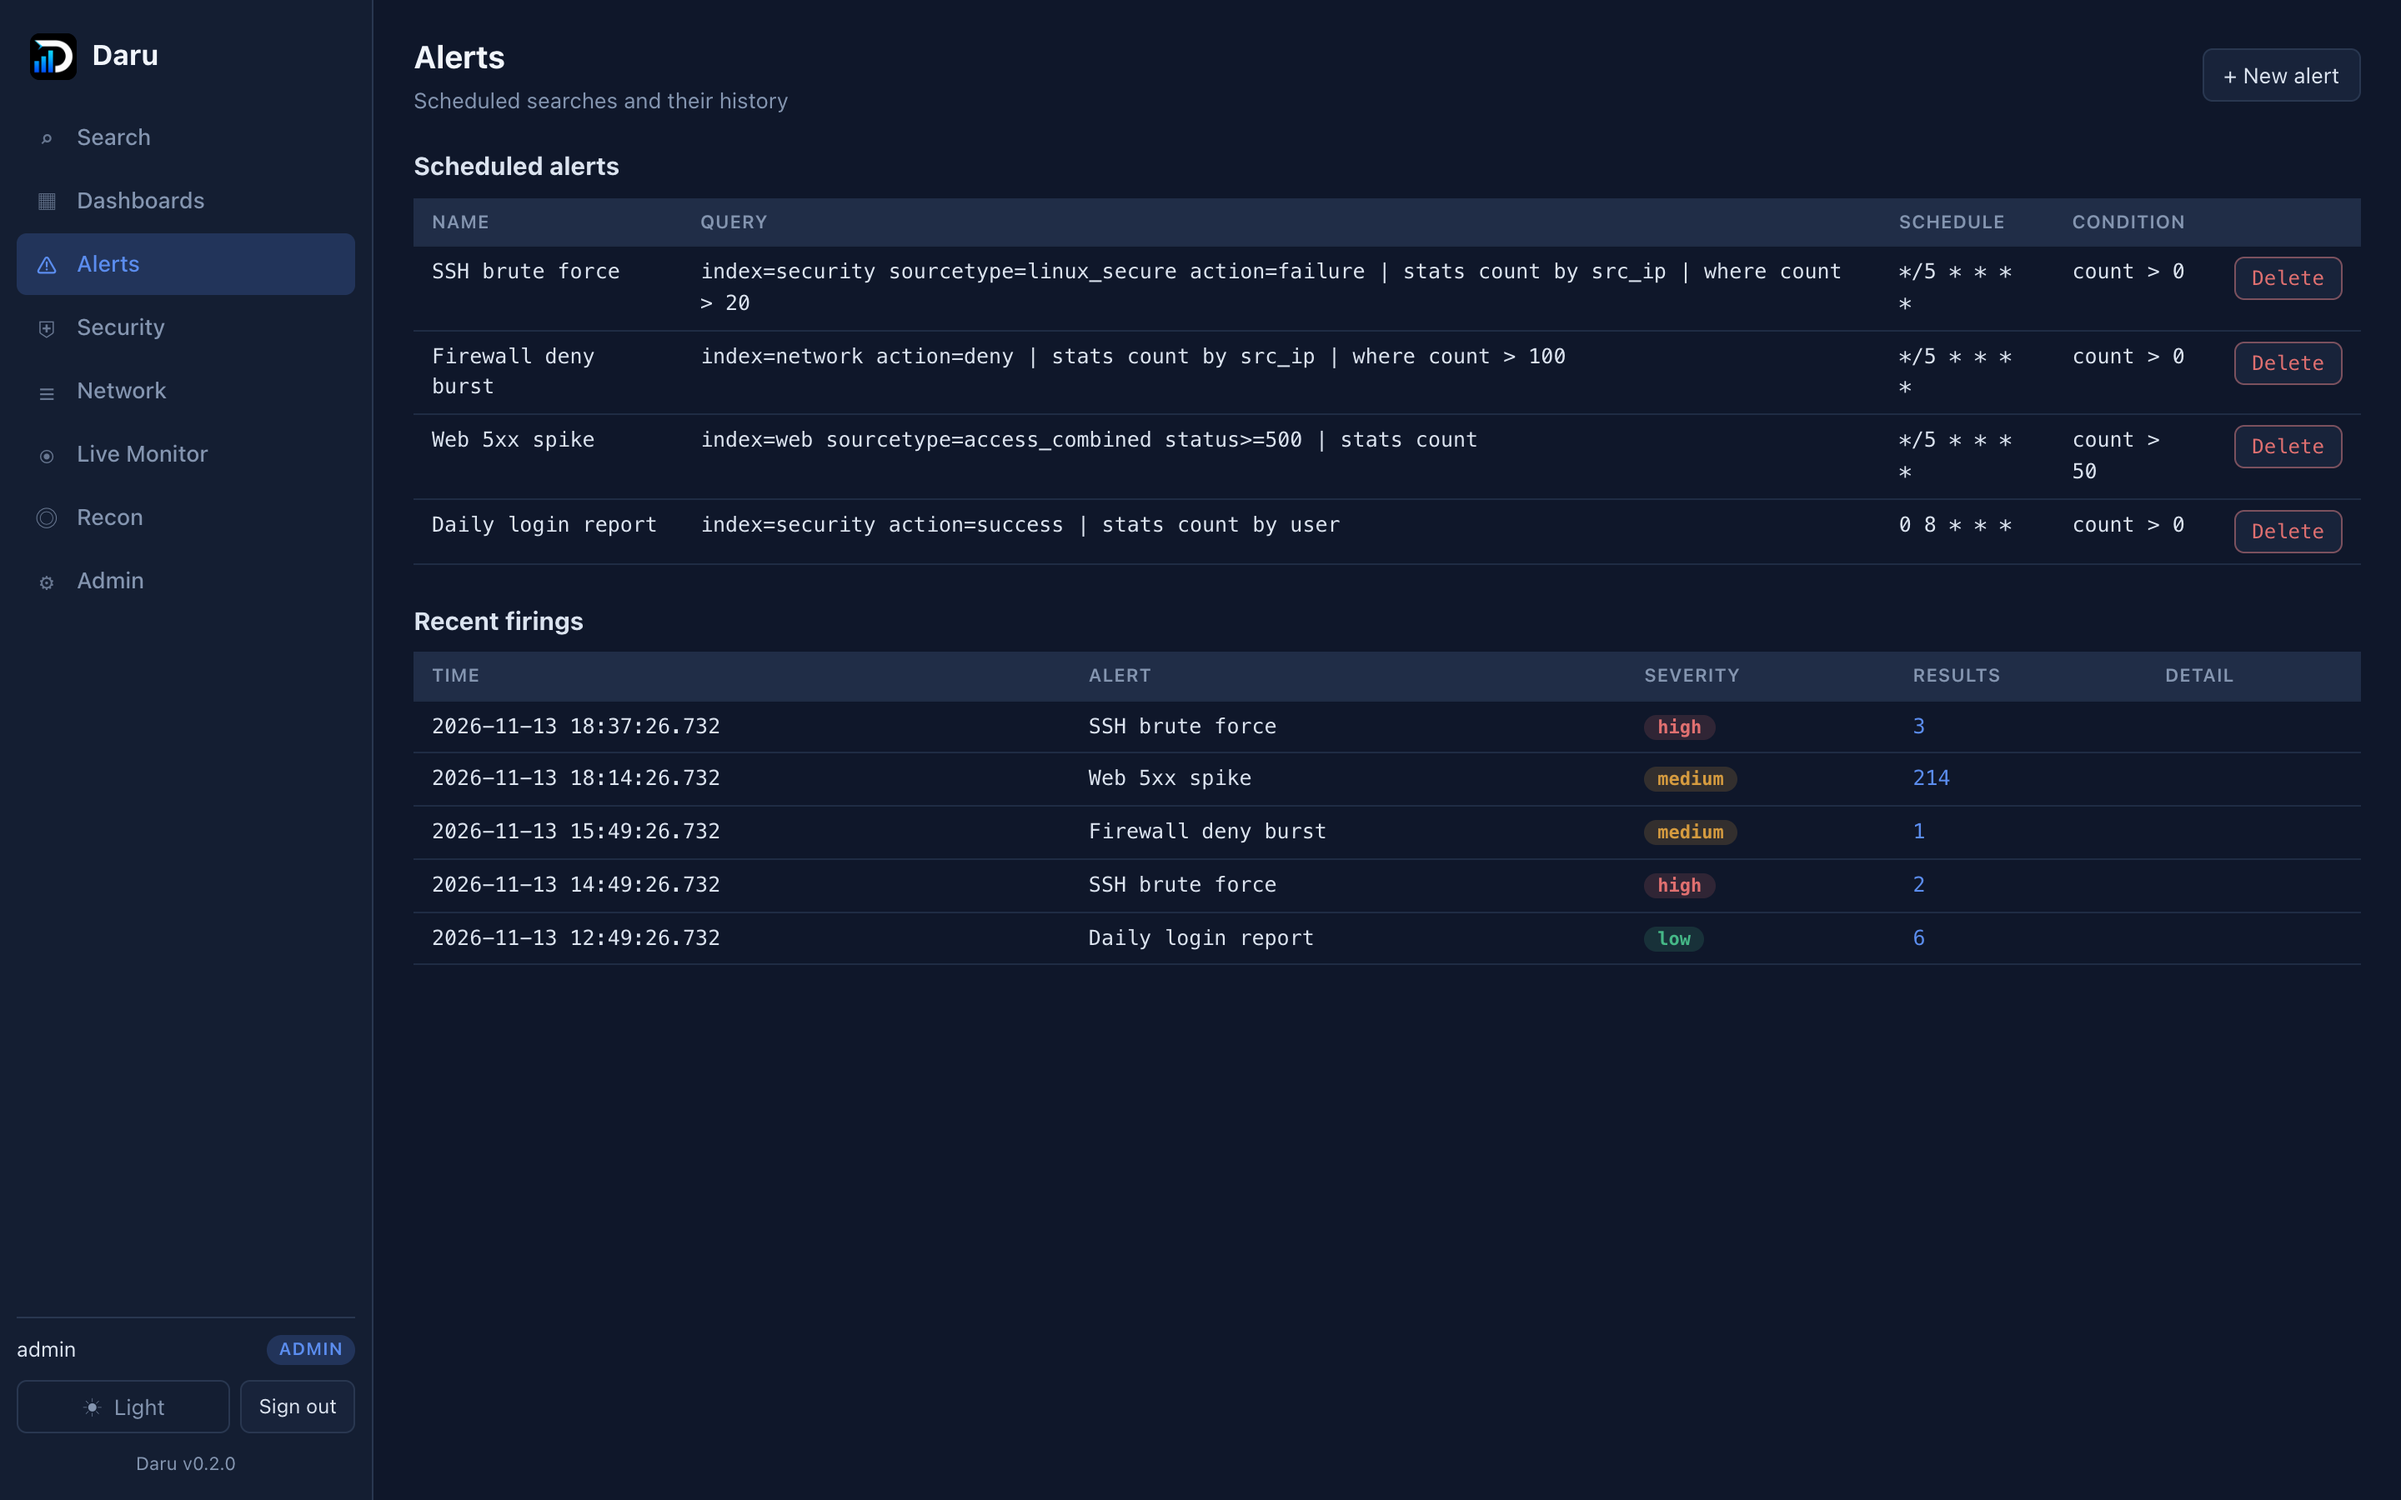
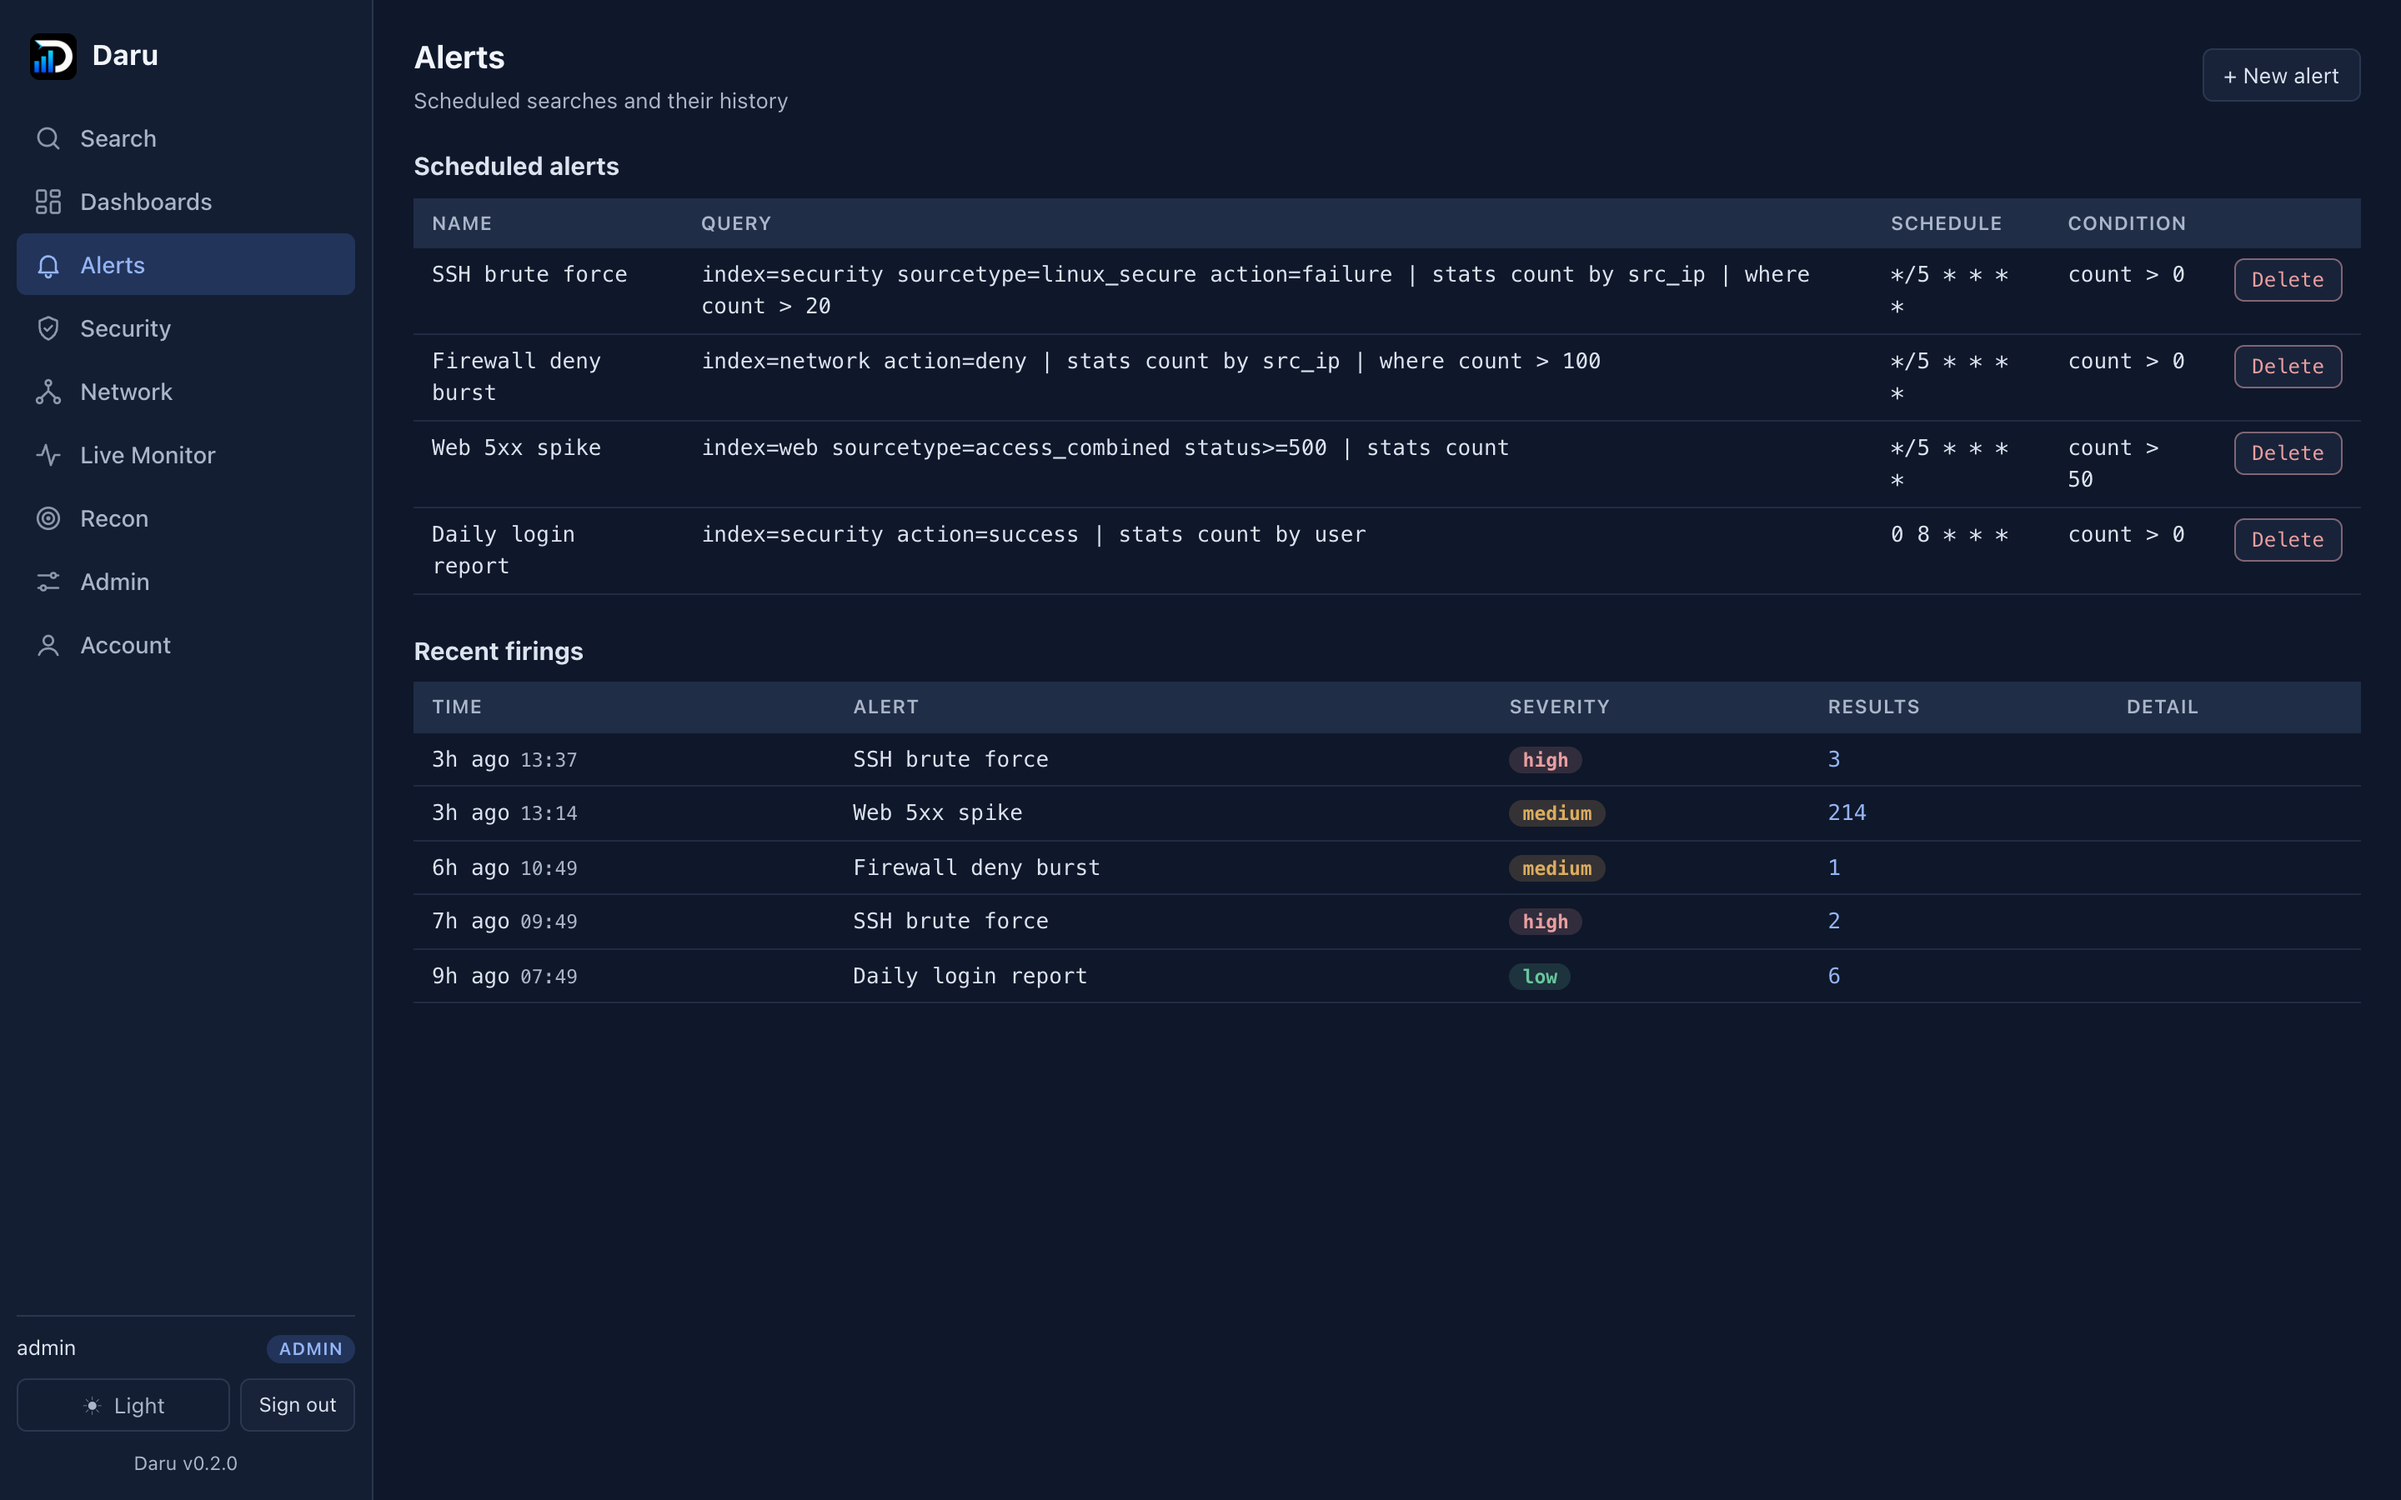
Refresh screenshots and document the production features
New screenshots for the incident timeline, audit log, and account page;
every other screenshot retaken with the updated UI. FIXLOG records the
contrast measurements, the features, and how each was verified.

diff --git a/FIXLOG.md b/FIXLOG.md
@@ -356,6 +356,53 @@ Verified in the real UI on macOS: en0 is the default, a capture filtered to
 host 192.0.2.1 recorded exactly the 6 test packets sent, Stop ended it, and
 en0 showed live throughput. The Linux path is unchanged.
 
+## Follow up, 2026-11-13 (8): production readiness
+
+UI, measured rather than eyeballed:
+- Contrast checked against WCAG AA (4.5:1). The light theme failed on the
+  colors that carry SIEM meaning: green 3.2:1, amber 3.3:1, info 3.8:1,
+  red 4.1:1, accent 4.3:1; white button text was 3.2:1 in the dark theme.
+  Every text color now passes on --bg, --panel, --panel-2, and the tinted
+  badge backgrounds; buttons use a separate --accent-solid.
+- All form controls follow the theme (several were bright browser
+  defaults), keyboard focus is always visible, small text is 11.5-13px.
+- Charts: y axis on whole-number steps, gridlines, labels sized to the
+  chart's width, tooltips. Dashboard charts no longer overflow their card.
+- Times show in the viewer's zone without milliseconds; activity tables
+  show relative times with the exact time on hover.
+- Fixes: the Security "High severity" card ignored critical events; MITRE
+  bars were scaled to the largest tactic (all full width when counts tie)
+  and now show each tactic's share; stats results no longer leave an empty
+  Fields panel; identifiers no longer wrap at hyphens.
+- Two-factor setup moved to a new Account page (Security links to it
+  while it is off). Sidebar icons are SVG.
+
+Security and operations:
+- Audit trail stored in ClickHouse (audit_log, two-year TTL) as well as
+  the server log, through a batching writer that never blocks a request
+  and flushes on shutdown. Admin > Audit log filters and exports it. The
+  app user's ALTER DELETE and UPDATE are revoked on audit_log, so Daru
+  cannot change or delete it; check-clickhouse-privileges.sh proves it.
+  Existing installs: run the REVOKE in deploy/clickhouse-users.sql.
+  Scans, schedules, saved searches, dashboards, pcap uploads, incident
+  changes, and session revocations are now audited too.
+- Syslog receiver (RFC 5424 and 3164, UDP and TCP, octet counting),
+  off by default, with a sender allowlist, a TCP connection cap, idle
+  timeouts, a 64 KB message cap, and the shared ingest rate limit. A device
+  whose clock runs ahead keeps its time in syslog_time and is indexed at
+  receive time, so its events stay searchable.
+- Sessions record IP, user agent, and sign in method. Users list and end
+  their sessions; admins sign a user out everywhere.
+- Incidents have a timeline with notes, assignment, and status changes.
+  Status was not validated before: any string was accepted, and an unknown
+  one dropped the incident out of the open and closed counts.
+
+Verified on the demo instance (ClickHouse 25.8): audit rows written,
+filtered, flushed on SIGTERM; syslog over UDP, TCP octet-counted, and TCP
+newline framing, and refused from outside the allowlist; a revoked session
+gets 401 at once while the others keep working, and one user cannot end
+another's session; incident notes, assignment, and status in the browser.
+
 ## Remaining honest limits
 
 - govulncheck (v1.9.0, run 2026-11-13 with Go 1.27.4; v1.1.4 crashes on

diff --git a/README.md b/README.md
@@ -80,8 +80,15 @@ domains), so nothing here comes from a real network.
 <td><b>Catalog of all 59 tools, grouped by category</b><br><img src="docs/screenshot-tool-catalog.png" alt="Tool catalog"></td>
 </tr>
 <tr>
+<td><b>Incident timeline with notes, owner, and status</b><br><img src="docs/screenshot-incident.png" alt="Incident detail"></td>
+<td><b>Append-only audit trail with filters and CSV export</b><br><img src="docs/screenshot-audit.png" alt="Audit log"></td>
+</tr>
+<tr>
 <td><b>A dashboard and scan history for every tool</b><br><img src="docs/screenshot-recon-dashboard.png" alt="Per-tool dashboard"></td>
-<td><b>Sign in with a local account, LDAP, OIDC, or SAML</b><br><img src="docs/screenshot-login.png" alt="Sign in"></td>
+<td><b>Account: two-factor and active sessions</b><br><img src="docs/screenshot-account.png" alt="Account"></td>
+</tr>
+<tr>
+<td colspan="2"><b>Sign in with a local account, LDAP, OIDC, or SAML</b><br><img src="docs/screenshot-login.png" alt="Sign in" width="50%"></td>
 </tr>
 </table>
 
